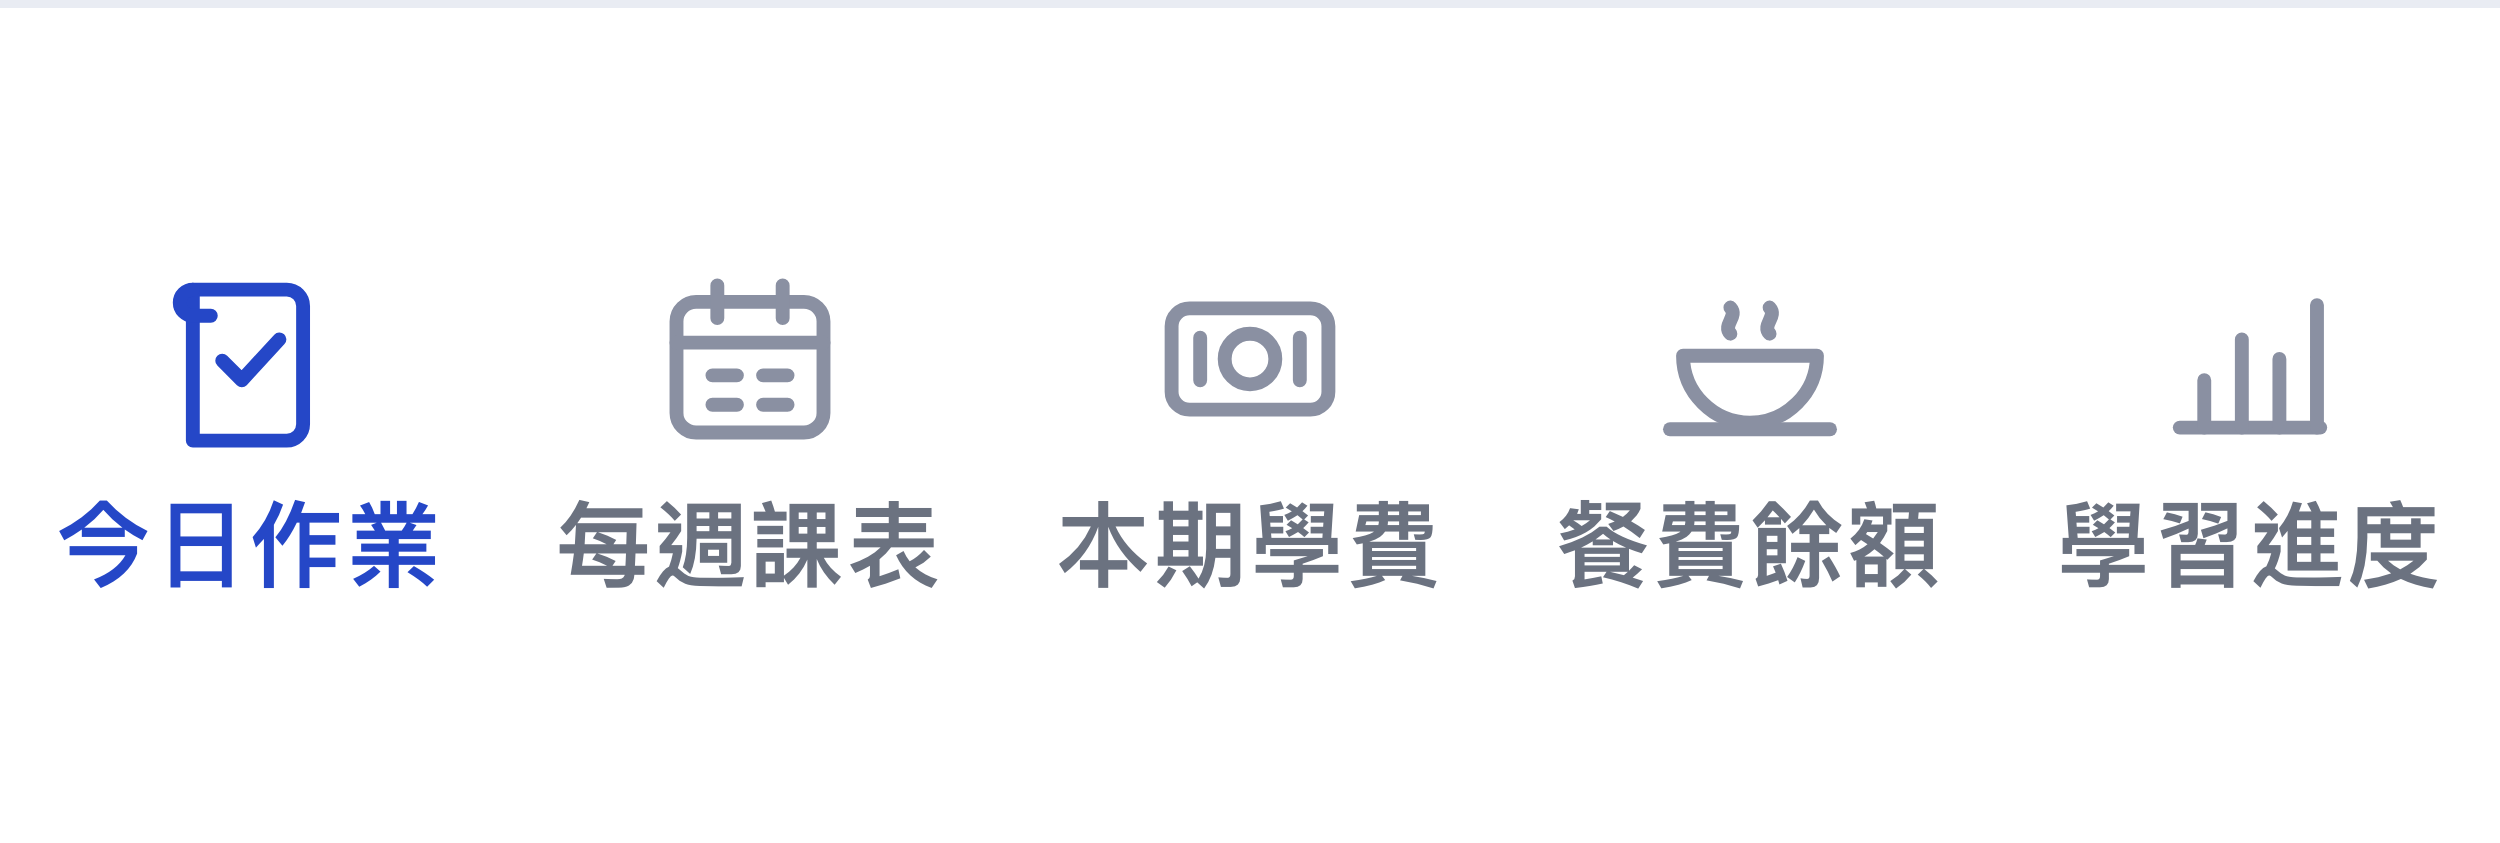
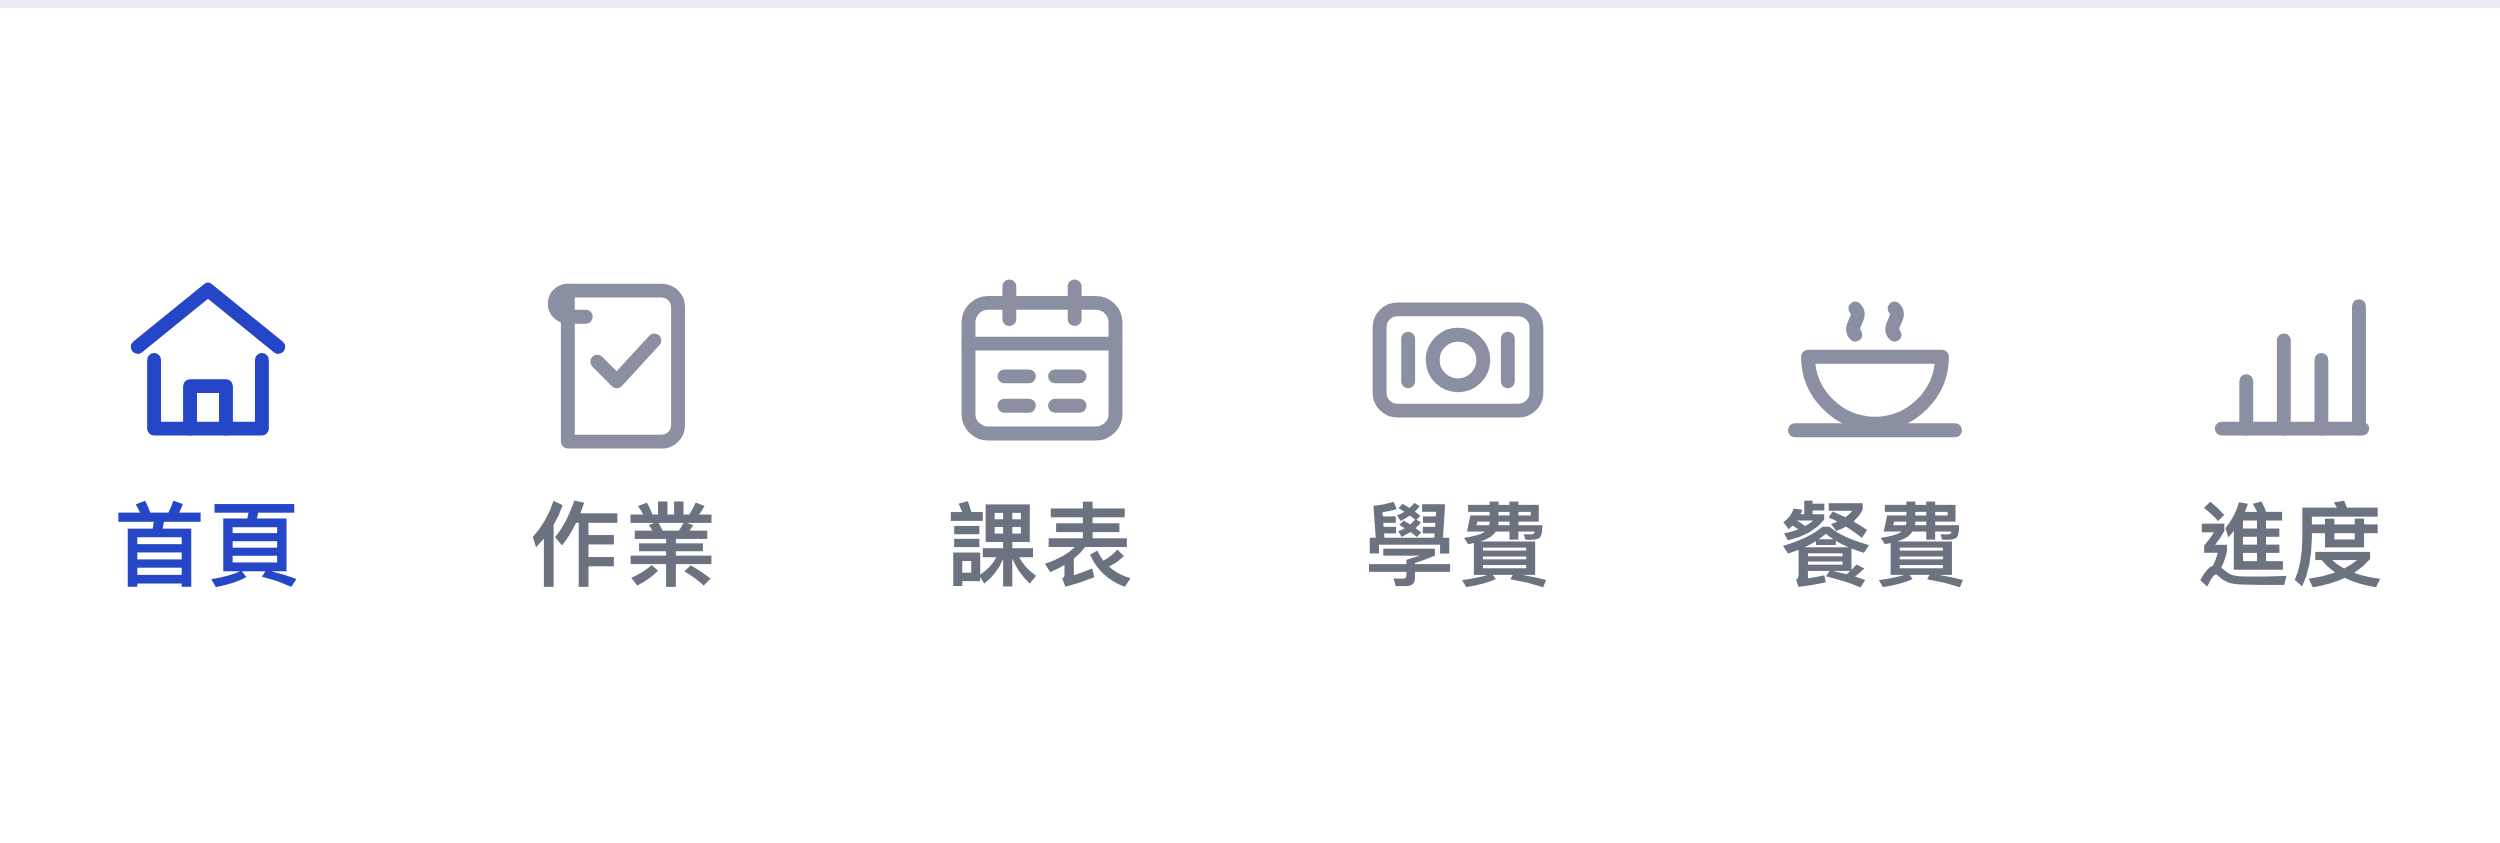
圖文選單: a 首頁 button, and two-character labels to make room for it
Patty, after 木生's: 今日作業 had been doing two jobs. It was secretly the home
screen — summary + 提醒 + class record — so its label lied, and from 餐費 there
was no way back to the overview except tapping something that says homework.

Six buttons now: 首頁 · 作業 · 課表 · 學費 · 餐費 · 進度.

🔑 The constraint was never the button count, it was the LABEL LENGTH. 木生 fits
five comfortably because 掛號/報告/意見/我的 are two characters; ours were four,
which is why a six-column render looked cramped at phone scale before the labels
were shortened. Two-char labels fit six better than four-char labels fit five.
The full names survive as the card headings inside each screen — the tab names
the destination, the screen names itself, which is how a tab bar works.

首頁 = 重點摘要 + 老師提醒 + 開課資訊. 作業 = the class record.

🔑 `hw` KEPT ITS KEY and still resolves — keys are additive, never renamed, and
a menu already in a parent's LINE cannot be recalled. That is what makes the
menu swap safe: there is no window where a live button is dead, and the test
suite pins it. The no-key default moved to `home`, so opening the LIFF directly
lands where the first button goes.

Per-view fetching follows the split: 首頁 asks the journal for 5 rows (enough to
find today's entry for the chip) instead of 40; the full list is the 作業 view's
job. The last menu column absorbs the 2500/6 rounding so the bar has no dead
strip on its right edge.

18/18 at 390×660, including ?s=hw still routing correctly.

diff --git a/parent/index.html b/parent/index.html
@@ -340,9 +340,12 @@
   // parents' LINE, which cannot be recalled — a key may be ADDED but never
   // renamed. Which cards a key mounts is free to change; the key itself is not.
   var VIEWS = {
-    // 'hw' is also the HOME view: no 首頁 button exists (five is the intended
-    // count), and it is where a parent lands on a normal weekday.
-    hw:       ["summary", "notices", "sec-hw", "sec-offerings"],
+    // 首頁 exists because 'hw' had been doing two jobs — it was secretly home,
+    // so its label lied, and there was no way back to the overview from 餐費
+    // except tapping something that says homework. 'hw' KEPT its key (keys are
+    // additive, never renamed), it just carries less now.
+    home:     ["summary", "notices", "sec-offerings"],
+    hw:       ["sec-hw"],
     week:     ["sec-week"],
     fee:      ["sec-fee"],
     meal:     ["sec-meal"],
@@ -351,9 +354,9 @@
   var VIEW_IDS = ["summary", "notices", "sec-hw", "sec-week", "sec-fee", "sec-meal",
                   "sec-progress", "sec-trend", "sec-units", "sec-exams", "sec-offerings"];
 
-  /** Which view the URL asks for; 'hw' when it asks for nothing or for
-   *  something unknown — opening the LIFF directly lands on the same screen as
-   *  the daily button, so there is one home rather than two.
+  /** Which view the URL asks for; 'home' when it asks for nothing or for
+   *  something unknown — opening the LIFF directly lands on 首頁, the same
+   *  place the first menu button goes, so there is one home rather than two.
    *  Read from BOTH `?s=<key>` and `#<key>`: LIFF packs the whole suffix, query
    *  AND fragment, into `liff.state` and hands it back before liff.init()
    *  resolves, so decode that first — this must give the same answer on either
@@ -364,7 +367,7 @@
     var st = raw.match(/liff\.state=([^&#]*)/);
     if (st) { try { raw = decodeURIComponent(st[1]); } catch (e) {} }
     var m = raw.match(/(?:[?&]s=|#)([a-z]+)/);
-    return m && VIEWS[m[1]] ? m[1] : "hw";
+    return m && VIEWS[m[1]] ? m[1] : "home";
   }
 
   // Captured at load, because the DEV branch strips the URL before boot runs.
@@ -373,7 +376,7 @@
   /** Mount only this view's cards. Called BEFORE the fetch so a parent never
    *  sees a flash of the sections they didn't ask for. */
   function applyView() {
-    var keep = VIEWS[currentView] || VIEWS.hw;
+    var keep = VIEWS[currentView] || VIEWS.home;
     VIEW_IDS.forEach(function (id) {
       var el = $(id);
       if (el) el.classList.toggle("vhide", keep.indexOf(id) === -1);
@@ -484,17 +487,17 @@
   async function loadView(sid) {
     var v = currentView;
 
-    if (v === "hw") {
-      // The summary chips need 學費 and 餐費 numbers, so home costs ~5 queries.
+    if (v === "home") {
+      // The summary chips need 學費 and 餐費 numbers, so 首頁 costs ~5 queries.
+      // The journal is fetched only far enough back to find TODAY's entry — the
+      // full list belongs to the 作業 view.
       var r = await Promise.all([
         sb.from("parent_notice_v")
           .select("class_name, entry_date, show_until, notice")
           .eq("student_id", sid).order("entry_date", { ascending: false }),
-        // parent_journal_v is a definer view; the base table carries `notes`,
-        // the teacher's internal 班級狀況, which the view omits.
         sb.from("parent_journal_v")
-          .select("class_id, class_name, subject, entry_date, progress, homework")
-          .eq("student_id", sid).order("entry_date", { ascending: false }).limit(40),
+          .select("entry_date, homework")
+          .eq("student_id", sid).order("entry_date", { ascending: false }).limit(5),
         sb.from("parent_tuition_v")
           .select("class_id, class_name, term_name, expected, paid, outstanding")
           .eq("student_id", sid),
@@ -502,10 +505,19 @@
         sb.from("parent_meal_balance_v").select("balance, last_topup_on")
           .eq("student_id", sid).maybeSingle(),
       ]);
-      var ntc = r[0].data || [], jrn = r[1].data || [];
-      renderNotices(ntc);
+      renderNotices(r[0].data || []);
+      renderSummary(kidById(sid), r[1].data || [], r[2].data || [],
+                    (r[3].data || []).length, r[4].data);
+      return;
+    }
+
+    if (v === "hw") {
+      // parent_journal_v is a definer view; the base table carries `notes`, the
+      // teacher's internal 班級狀況, which the view omits.
+      var jrn = (await sb.from("parent_journal_v")
+        .select("class_id, class_name, subject, entry_date, progress, homework")
+        .eq("student_id", sid).order("entry_date", { ascending: false }).limit(40)).data || [];
       renderJournal(jrn);
-      renderSummary(kidById(sid), jrn, r[2].data || [], (r[3].data || []).length, r[4].data);
       return;
     }
 

diff --git a/parent/richmenu/richmenu.html b/parent/richmenu/richmenu.html
@@ -7,12 +7,17 @@
   COMPACT, not large (Patty, 2026-08-18, after seeing 木生婦幼's): the first cut
   was 2500×1686 with a double-width 今日作業 block, and it read as "way too big
   and not useful" — a full-height panel covering the chat to say five words. A
-  rich menu is a tab bar, not a poster. Five equal 500×843 columns, icon over
-  label, the way every app's bottom bar does it.
+  rich menu is a tab bar, not a poster. Six equal 416×843 columns, icon over label.
 
-  今日作業 carries the brand blue and the others are muted, so the daily one
-  still reads first WITHOUT spending twice the area on it — that was the real
-  job the double-width block was doing.
+  SIX, not five (Patty, 2026-08-19, after 木生's 首頁): the labels dropped from
+  four characters to TWO, and that — not a smaller face — is what bought the
+  room. 木生 fits five because 掛號/報告/意見/我的 are two chars; ours were four.
+  The long names survive as the card HEADINGS inside each screen, which is how a
+  tab bar normally works: the tab names the destination, the screen names itself.
+
+  首頁 carries the brand blue. It exists because 今日作業 had been doing two
+  jobs — it was secretly the home screen, so its label lied, and there was no way
+  back to the overview from 餐費餘額 except tapping something that says homework.
 
   Rendered to richmenu.png by build.mjs. The tap areas in README.md are the
   other half of this file: move a column here and the map is wrong.
@@ -26,7 +31,7 @@
   }
   .menu{
     width:2500px;height:843px;
-    display:grid;grid-template-columns:repeat(5,1fr);
+    display:grid;grid-template-columns:repeat(6,1fr);
     /* NO vertical dividers — the reference bar (木生婦幼) has none, and at this
        size they read as clutter. One hairline across the top is all that is
        needed for the bar to sit apart from the conversation. */
@@ -39,7 +44,7 @@
     gap:40px;
   }
   .cell svg{width:196px;height:196px;display:block}
-  .cell .lbl{font-size:94px;font-weight:800;letter-spacing:.03em;line-height:1;color:#6B7280}
+  .cell .lbl{font-size:92px;font-weight:800;letter-spacing:.03em;line-height:1;color:#6B7280}
   /* the daily one — colour is the whole emphasis budget now */
   .on .lbl{color:#2547C7;font-weight:900}
 </style>
@@ -49,11 +54,21 @@
   <div class="cell on">
     <svg viewBox="0 0 24 24" fill="none" stroke="#2547C7" stroke-width="1.7"
          stroke-linecap="round" stroke-linejoin="round">
+      <path d="M3.4 10.4 12 3.4l8.6 7"/>
+      <path d="M5.4 12v8.4h13.2V12"/>
+      <path d="M9.8 20.4v-5.2h4.4v5.2"/>
+    </svg>
+    <div class="lbl">首頁</div>
+  </div>
+
+  <div class="cell">
+    <svg viewBox="0 0 24 24" fill="none" stroke="#8A90A2" stroke-width="1.7"
+         stroke-linecap="round" stroke-linejoin="round">
       <path d="M5 3.5h11.5a2 2 0 0 1 2 2V20a2 2 0 0 1-2 2H5z"/>
       <path d="M5 3.5a1.6 1.6 0 0 0 0 3.2h2.2"/>
       <path d="M8.6 12.2l2.4 2.4 4.6-5"/>
     </svg>
-    <div class="lbl">今日作業</div>
+    <div class="lbl">作業</div>
   </div>
 
   <div class="cell">
@@ -63,7 +78,7 @@
       <path d="M3 10h18M8 3v4M16 3v4"/>
       <path d="M7.4 14h3M7.4 17.6h3M13.6 14h3M13.6 17.6h3"/>
     </svg>
-    <div class="lbl">每週課表</div>
+    <div class="lbl">課表</div>
   </div>
 
   <div class="cell">
@@ -73,7 +88,7 @@
       <circle cx="12" cy="12" r="3.1"/>
       <path d="M5.9 9.4v5.2M18.1 9.4v5.2"/>
     </svg>
-    <div class="lbl">本期學費</div>
+    <div class="lbl">學費</div>
   </div>
 
   <div class="cell">
@@ -83,7 +98,7 @@
       <path d="M2.2 20.6h19.6"/>
       <path d="M9.6 8.9c-1-1.1 1-2.1 0-3.2M14.4 8.9c-1-1.1 1-2.1 0-3.2"/>
     </svg>
-    <div class="lbl">餐費餘額</div>
+    <div class="lbl">餐費</div>
   </div>
 
   <div class="cell">
@@ -92,7 +107,7 @@
       <path d="M3.4 20.4h17.2"/>
       <path d="M6.4 20.4v-5.8M11 20.4V9.6M15.6 20.4v-8.4M20.2 20.4V5.4"/>
     </svg>
-    <div class="lbl">學習進度</div>
+    <div class="lbl">進度</div>
   </div>
 
 </div>
